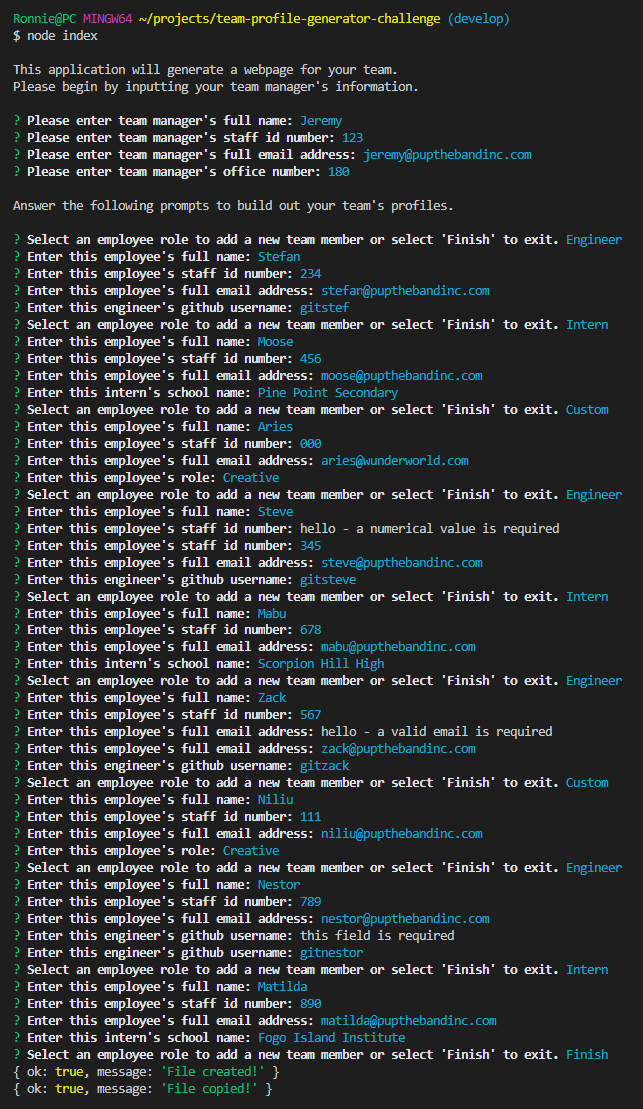
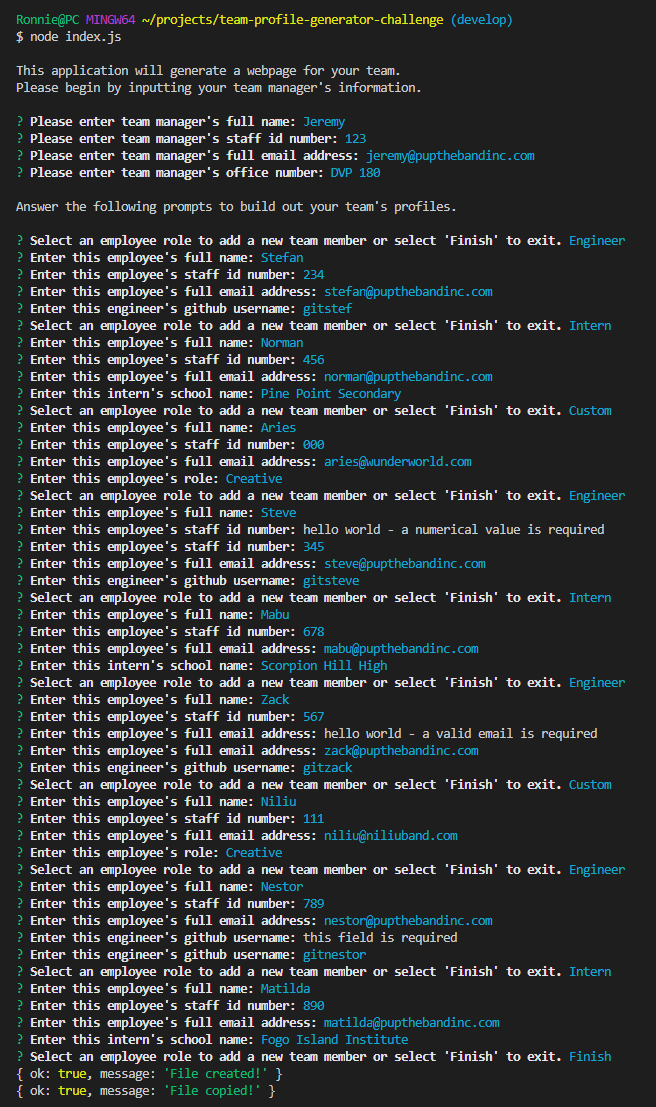
reconfigured directories, updated examples

Changed region(s): [[0.0, 0.0, 0.9642, 1.0], [0.7776, 0.9521, 0.9331, 0.9828], [0.7776, 0.7064, 0.9331, 0.7371]]

diff --git a/index-sample.html b/index-sample.html
@@ -31,7 +31,7 @@
                                 <ul class="card-text list-group m-3 py-2 text-danger bg-white">
                                     <li class="list-group-item border-0"><i class="bi bi-person-badge"></i> ID: 123</li>
                                     <li class="list-group-item border-0"><i class="bi bi-envelope"></i> Email: <a href="mailto:jeremy@pupthebandinc.com" class="text-reset link-danger">jeremy@pupthebandinc.com</a></li>
-                                    <li class="list-group-item border-0"><i class="bi bi-building"></i> Office: 180</li>
+                                    <li class="list-group-item border-0"><i class="bi bi-building"></i> Office: DVP 180</li>
                                 </ul>
                             </div>
                     </div>
@@ -98,11 +98,11 @@
                 <div class="card d-flex flex-column justify-content-between m-4 bg-success custom">
                     <h3 class="card.title m-4 text-white">
                         <i class="bi bi-journal-bookmark-fill"></i>
-                        Moose
+                        Norman
                     </h3>
                     <ul class="card-text list-group m-3 py-2 text-success bg-white">
                         <li class="list-group-item border-0"><i class="bi bi-person-badge"></i> ID: 456</li>
-                        <li class="list-group-item border-0"><i class="bi bi-envelope"></i> Email: <a href="mailto:moose@pupthebandinc.com" class="text-reset link-success">moose@pupthebandinc.com</a></li>
+                        <li class="list-group-item border-0"><i class="bi bi-envelope"></i> Email: <a href="mailto:norman@pupthebandinc.com" class="text-reset link-success">norman@pupthebandinc.com</a></li>
                         <li class="list-group-item border-0"><i class="bi bi-book"></i> School: Pine Point Secondary</li>
                     </ul>
                 </div><!--New Intern Card-->

diff --git a/index.js b/index.js
@@ -1,6 +1,6 @@
 const inquirer = require("inquirer");
-const generatePage = require("./file-template.js");
-const {writeFile, copyFile} = require("./generate-site.js");
+const generatePage = require("./src/file-template.js");
+const {writeFile, copyFile} = require("./utils/generate-site.js");
 const Engineer = require("./lib/Engineer");
 const Manager = require("./lib/Manager");
 const Intern = require("./lib/Intern");

diff --git a/README.md b/README.md
@@ -2,7 +2,7 @@
   # Team Profile Generator
   [![License: MIT](https://img.shields.io/badge/License-MIT-yellow.svg)](https://opensource.org/licenses/MIT)</br>
     
-  This application uses Node.js to generate a staff profile page, categorizing team members as managers, engineers, interns, or extended team members. A card is generated for each team member, listing the member's name, ID number, email, and an additional piece of information. This project was built using Test-Driven Development and Object Oriented Programming principles.
+  This application uses Node.js to generate a staff profile page, categorizing staff as managers, engineers, interns, or extended team members. A card is generated for each team member, listing the member's name, ID number, email, and an additional piece of information. This project was built using Test-Driven Development and Object Oriented Programming principles.
   
   ## Table of Contents
   * [Bonus Features](#features)
@@ -31,16 +31,16 @@
   After cloning the repository and ensuring that Node.js and npm Inquirer are installed, enter "node index.js" in the terminal to get started. After all the prompts have been answered, HTML and CSS files will be written to the "./dist" and "./dist/assets/css" directories.
   
   ## Usage Information<a name="usage"></a>
-  This application has preset Manager, Engineer, and Intern categories. Custom team members will be assigned to the "Extended Members" category.</br>
-  The custom CSS stylesheet is linked to the index.html file using the standard "./assets/css/style.css" reference (the "index-sample.html" file has been manually edited to link to the "./src/style.css" path for easy preview).</br>
+  This application has preset Manager, Engineer, and Intern categories. Custom team members will be assigned to the "Extended Members" category.</br></br>
+  For index.html files generated with this application, the custom CSS stylesheet is linked using the standard "./assets/css/style.css" reference. For the "index-sample.html" file in this repository's root directory, this path has been manually edited to link to the "./src/style.css" path for easy preview.</br></br>
   Video walkthrough of how to use this application, [here](https://drive.google.com/drive/folders/1JYhoou6Zia4QPHW4leLDnAACOLoFw9SU?usp=sharing).</br>
   </br>![Team Profile Generator](./team-generator-cli.png "Team Profile Generator")</br>
   </br>![Team Profile Generator](./team-generator-page.png "Team Profile Generator")</br>
     
   ## Authors & Acknowledgements<a name="credits"></a>
   As with all projects, external resources were consulted, but special thanks to:</br>
-  Amitabh [here](https://gist.github.com/Amitabh-K/ae073eea3d5207efaddffde19b1618e8) for his regex email formatting validation.</br>
-  And Sayantini's article [here](https://www.edureka.co/blog/javascript-regex/) for the explainer on regex.</br></br>
+  Amitabh [here](https://gist.github.com/Amitabh-K/ae073eea3d5207efaddffde19b1618e8) for his regex email formatting validation</br>
+  Sayantini's article [here](https://www.edureka.co/blog/javascript-regex/) for the explainer on regex.</br></br>
   Made by [TOVTC](https://github.com/TOVTC).</br>
   Originally submitted 2022Apr26.
   
@@ -48,7 +48,7 @@
   This application uses the MIT License. For more information regarding usage, please visit [this link](https://opensource.org/licenses/MIT).
   
   ## Tests<a name="tests"></a>
-  Jest tests were conducted on all employee-class-based objects (employee, manager, engineer, intern, custom), to validate user input, object rendering,and data retrieval.
+  Jest tests were conducted on all employee-class-based objects (employee, manager, engineer, intern, custom), to validate user input, object rendering, and data retrieval.
     
   ## Questions?<a name="questions"></a>
   Contact repository author via [GitHub](https://github.com/TOVTC).</br>
